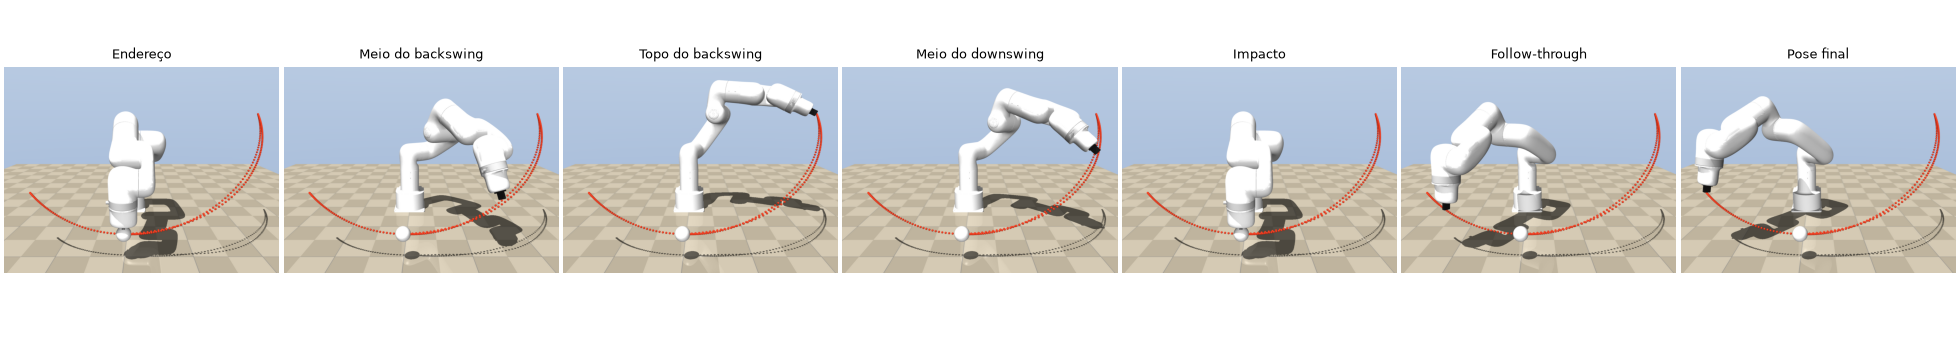
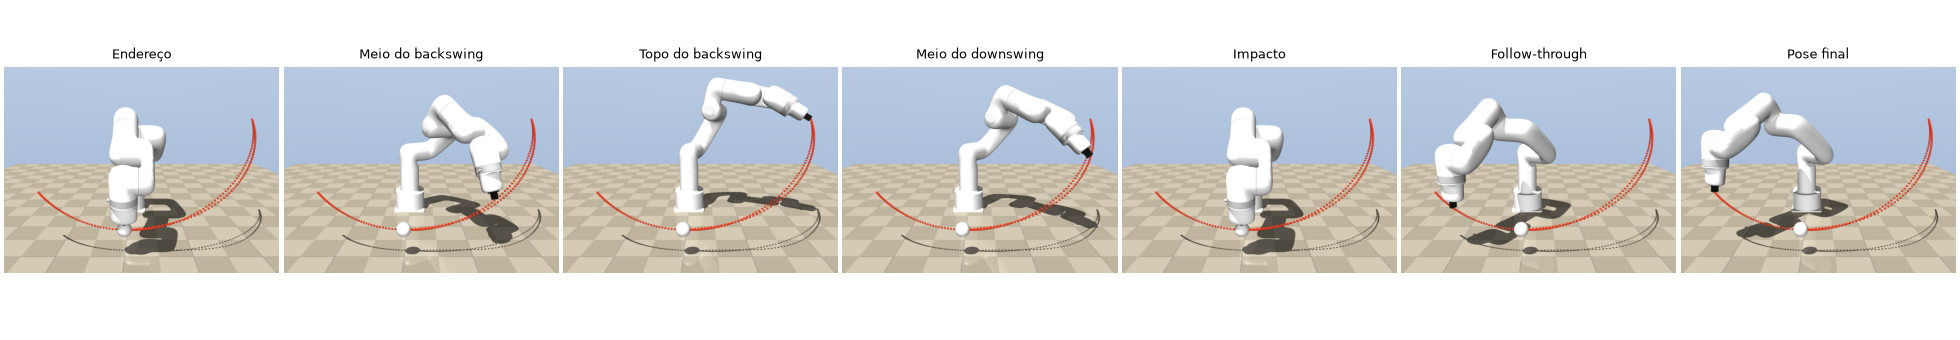
Lab2: GOLFISTA com J3 = 110 deg (91 % da extensao, longe da singularidade do cotovelo); graficos e README

diff --git a/Lab2/src/trajectory.py b/Lab2/src/trajectory.py
@@ -96,19 +96,19 @@ DEFAULTS = dict(
 # Preset "golfista": modo juntas com o endereço e os ganhos escolhidos com o
 # mujoco_preview (sem colisão, J5 longe de 0, braço a levantar nos dois lados).
 # Preset "golfista": modo juntas, como o V17 do Lab 1 (tronco = J1, ombro = J2,
-# pulso = J5), com o robô DIREITO: braço quase esticado (J3 = 120 deg; a 150 o
-# braço fica totalmente esticado = singularidade do cotovelo) e a pinça a pique
+# pulso = J5), com o robô DIREITO: braço quase esticado (J3 = 110 deg = 91 % da
+# extensão; a 150 fica todo esticado = singularidade do cotovelo) e a pinça a pique
 # no endereço. A trajetória da pinça (Tarefa 2) é a FK destes perfis.
 GOLFISTA = dict(
     juntas=dict(
-        q_enderecio=(0.0, 71.0, 120.0, 0.0, 50.0, 0.0),   # ponta em (415, 0, 80), pinça vertical
+        q_enderecio=(0.0, 65.5, 110.0, 0.0, 50.0, 0.0),   # ponta em (390, 0, 80), pinça vertical
         a_tronco=-0.8,     # J1 = -0.8·phi: backswing para +y (alvo -y)
         b_ombro=35.0,      # J2 levanta o braço 35·(1-cos phi): topo a z ~ 400
         b_cotovelo=0.0,
         a_pulso=-1.0,      # J5 arma 30 deg no backswing, solta aos 60 % do downswing
     ),
     phi_top=-90.0, phi_end=50.0,
-    # ponta a ~415 mm da base: t_down 4 s dá ~300 mm/s (limite 0.8 x 500); o
+    # ponta a ~390 mm da base: t_down 4 s dá ~290 mm/s (limite 0.8 x 500); o
     # robô só fez ~220 a 5 nov => começar com --lento 2
     t_back=4.5, t_down=4.0,            # backswing mais lento que o downswing: pico de |v| na bola
 )

diff --git a/Lab2/README.md b/Lab2/README.md
@@ -67,32 +67,33 @@ Resultado atual com os `DEFAULTS` (swing `GOLFISTA`, ver abaixo):
 
 ```
   1073 pontos, 10.72 s, IK numérica convergiu
-  vel. ponta      : max    302.9 mm/s   (limite c/ margem 400.0)  OK
-  vel. flange     : max    269.4 mm/s   (limite c/ margem 400.0)  OK
+  vel. ponta      : max    288.1 mm/s   (limite c/ margem 400.0)  OK
+  vel. flange     : max    258.0 mm/s   (limite c/ margem 400.0)  OK
   vel. juntas     : max     35.9 deg/s  (limite c/ margem 144.0)  OK
-  alcance         : max    418.4 mm     (limite c/ margem 421.5)  OK
+  alcance         : max    404.0 mm     (limite c/ margem 421.5)  OK
   limites juntas  : menor folga 74.0 deg (J5, mínimo 5)  OK
-  acima da mesa   : z min 79.7 mm (ponta 79.7, flange 163.3, juntas 163.3)  OK
-  fora da base    : r min 408.3 mm  OK
+  acima da mesa   : z min 80.4 mm (ponta 80.4, flange 163.7, juntas 163.7)  OK
+  fora da base    : r min 389.7 mm  OK
   => trajetória VIÁVEL
 ```
 
 ### O swing ativo: `GOLFISTA` (modo juntas)
 
 Desenhado nas juntas como o V17 do Lab 1 (tronco = J1, ombro = J2, pulso = J5),
-com o robô direito: braço quase esticado (J3 = 120°) e a pinça a pique na bola.
+com o robô direito: braço quase esticado (J3 = 110°, 91 % da extensão; a 100 % é
+singularidade do cotovelo) e a pinça a pique na bola.
 A trajetória cartesiana da pinça (o que a Tarefa 2 pede) é a FK destes perfis.
 
 | Junta | Perfil | Valor |
 |---|---|---|
 | J1 tronco | `-0.8·phi` | ±72° / 40° |
-| J2 ombro | `71 - 35·(1 - cos phi)` | topo a z ≈ 400 mm |
-| J3 cotovelo | fixo | 120° |
+| J2 ombro | `65.5 - 35·(1 - cos phi)` | topo a z ≈ 400 mm |
+| J3 cotovelo | fixo | 110° |
 | J5 pulso | `50 - psi` | arma 30° no backswing, solta aos 60 % do downswing |
 | J4, J6 | fixos | 0° |
 
 Fases do Lab 1: backswing quíntico (4.5 s) até `phi_top = -90°`, downswing com
-aceleração constante (4 s), follow-through até +50°. Bola em (415, 0, 80) mm.
+aceleração constante (4 s), follow-through até +50°. Bola em (390, 0, 80) mm.
 Tudo em `GOLFISTA`, no topo de [src/trajectory.py](src/trajectory.py); os
 outros modos (arco cartesiano original, híbrido, cópia do vídeo) ficam lá para
 comparação.
